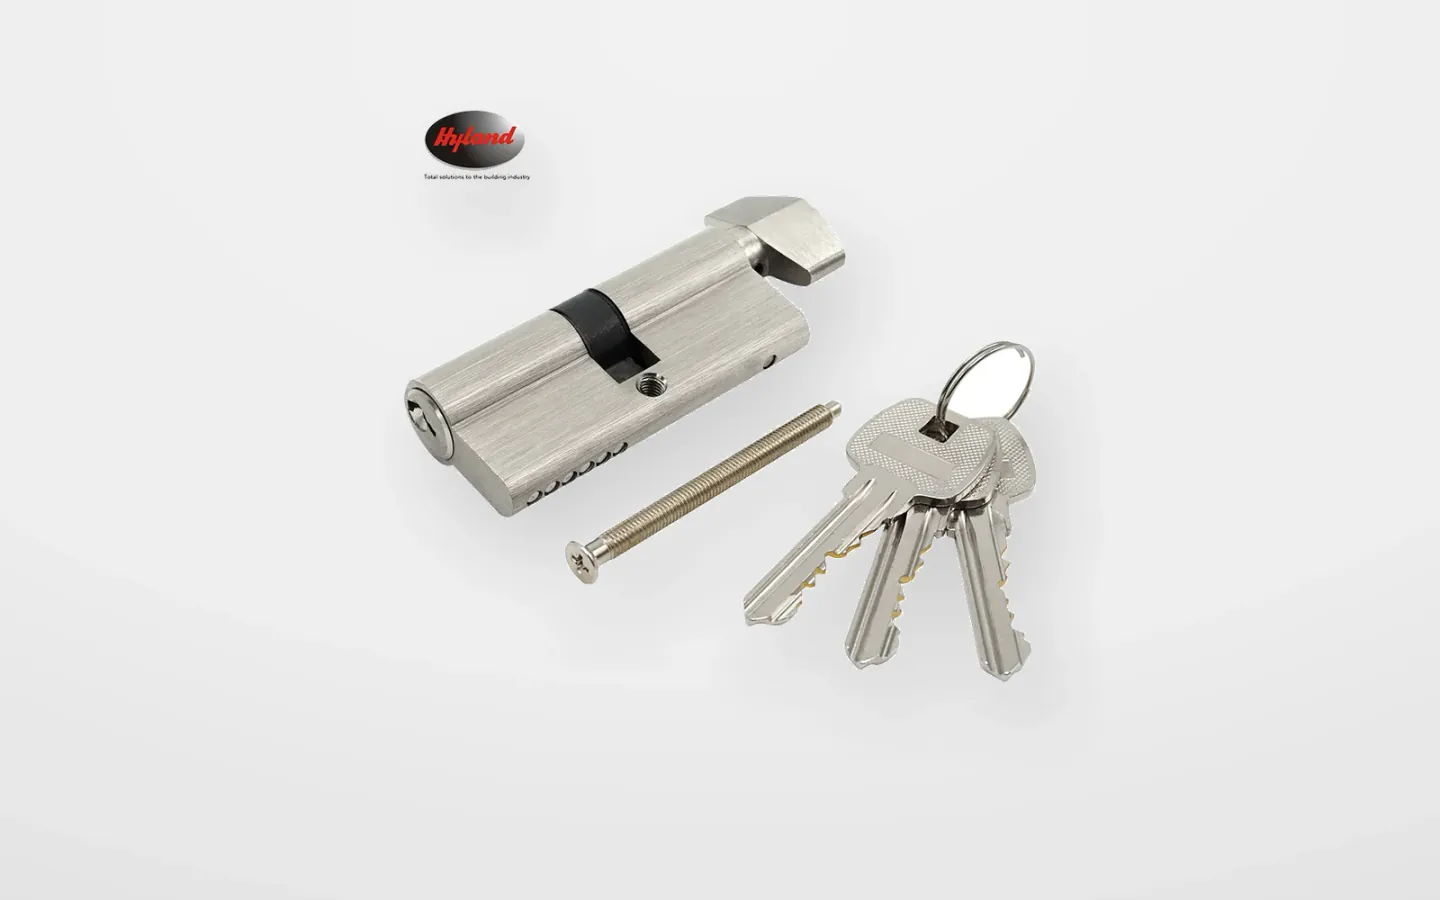
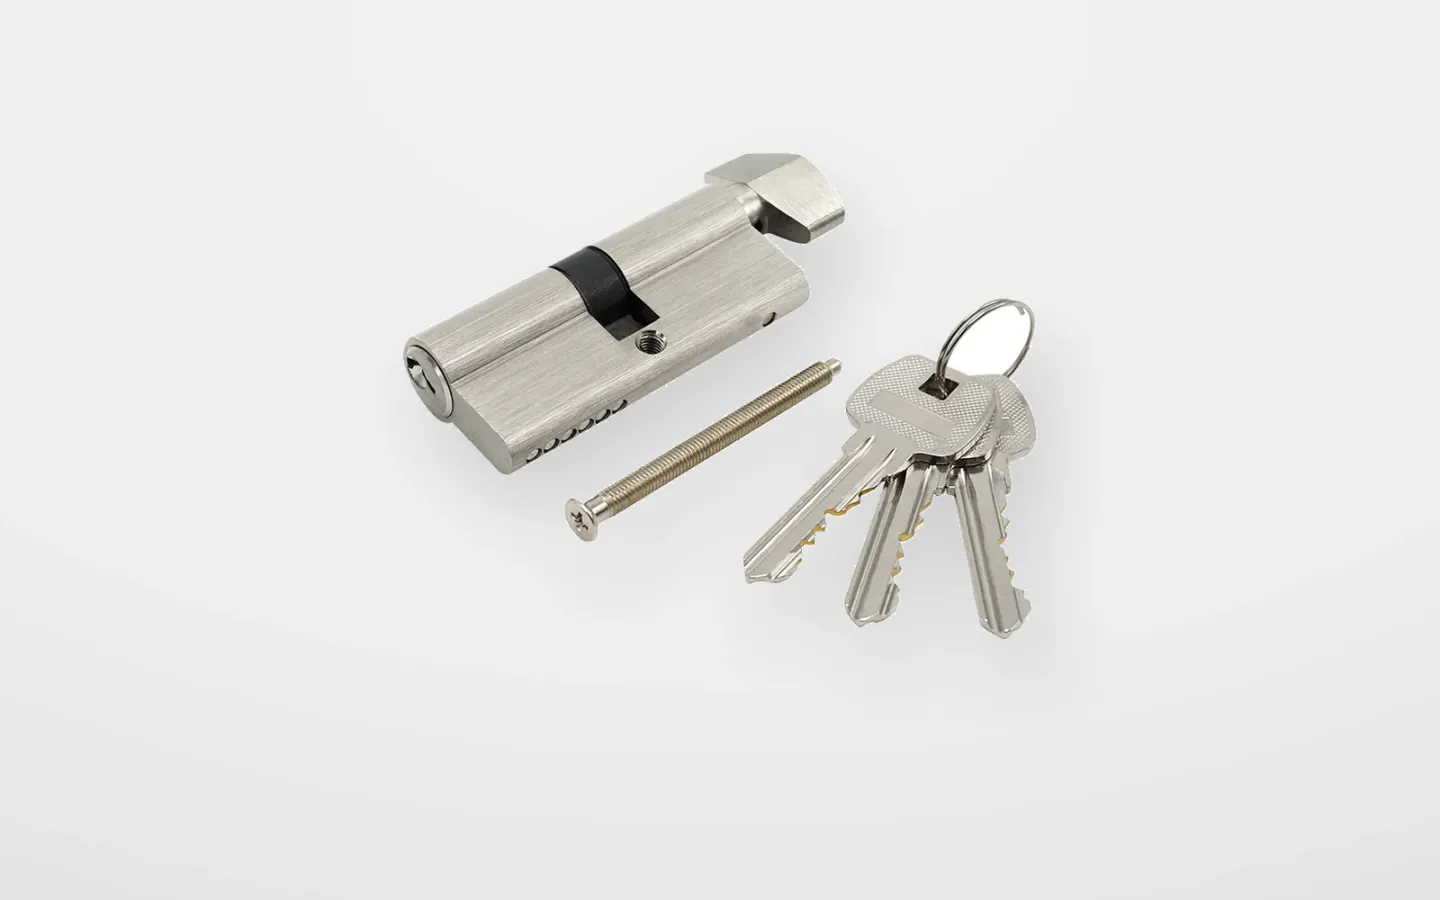
修三个线上缺陷：数据带出血、语言切换回首页、抠图残留水印
一、首页数据带被切掉两端

「THE FACTORY, IN FIGURES」那条带子第一个和最后一个数字被视口切掉了。原因是我给
SiteFacts 的容器写了 col-span-full——那是 Tailwind 的 grid-column: 1 / -1，它覆盖了
.layout > * 的 grid-column: content，把整条带子撑成全幅出血。改成显式的 col-content：
说清楚要哪一栏，而不是依赖一个恰好排在后面的工具类。

二、语言切换永远跳回西语首页

languageTarget 里只列了 /company、/contact、/projects 三条，其余全部落到 /es。而西语
镜像早已覆盖产品、对比、集合、配置器、检索与新闻——所以一个正在读产品页的西语买家点
切换，会被送回首页重新找。那个开关在站上大部分页面实际上变成了「重新开始」按钮。

改成读 hasSpanishMirror，也就是 hreflang 标签本来就在用的那份清单。一个来源，两处一致，
以后往镜像里加路由当天就能切，不必等谁想起来改这个文件。

顺带删掉文件头一段已经不成立的中文注释（还写着「只有 /company /contact /projects 有
西语版」）。它在镜像扩张后就错了，却一直留着误导下一个人。

三、抠图残留 Hyland 水印

线上首页那张锁芯图顶部带着红色 Hyland 椭圆，是我出的图。查了原因：logo 分量占主体的
0.071、maxY 在 0.13h、饱和像素只占 0.20。三条隔离规则里，第一条（小 + 靠上 + 不邻近）
被 near() 救了——logo 离锁芯太近被判成产品的一部分；第三条要求饱和度 > 0.5，而 logo 是
深色椭圆配红字，整体只有 0.20。

把第三条的门槛按实测留余量降到 0.12，位置从 0.35h 收到 0.22h。低门槛之所以安全，是靠
尺寸与位置两个前置条件：黄铜整体饱和度 0.906、金色 0.896，光看饱和度会把一整片合页抹掉，
但合页是主体，area < biggest * 0.2 永远不会把它交给这条规则。三个条件合起来描述的是
「一小块彩色的标记飘在画面上方」，在这个目录里只可能是水印。

修完 logo 后顶部还剩一道灰痕，是 logo 下面那行小字标语——中性灰，颜色判据看不见。它的
几何很干净：五个 46–130 像素的碎片（主体的 0.001），全部位于 y 107–113，而产品自己从
y 132 才开始。所以加了一条不依赖颜色的规则：又极小、又整个飘在产品上方的东西，不是零件。
钥匙圈、松螺丝、锁扣板这些确实会出现在产品旁边的小件，要么贴着主体，要么在侧下方，
而且没有一个小到主体的千分之一。

六张主图已用修好的抠图重出。

Changed region(s): [[0.2812, 0.1556, 0.7188, 0.7778], [0.2812, 0.1244, 0.375, 0.2178]]

diff --git a/src/components/site/SiteHeader.tsx b/src/components/site/SiteHeader.tsx
@@ -4,6 +4,7 @@ import Link from "next/link";
 import { useEffect, useRef, useState } from "react";
 import { usePathname } from "next/navigation";
 import { cn } from "@/lib/utils";
+import { hasSpanishMirror } from "@/lib/spanish-mirror";
 import type { MenuCategory } from "@/data/categories";
 import { headerNav, localisedHref, navLabel, siteSettings } from "@/data/navigation";
 import { GlobeIcon, MenuIcon, SearchIcon, Wordmark } from "./icons";
@@ -17,21 +18,40 @@ import { SiteMenuDrawer } from "./SiteMenuDrawer";
  * 同事在后台改一次即可，不必找人改代码 —— 后台那个栏目才算是真的能用，
  * 而不是摆着好看。
  *
- * 西班牙语路径由 localisedHref 统一处理：只有 /company /contact /projects
- * 有西语版，其余（新闻、下载、产品）指回英文页，而不是指向一个会 404 的 /es 地址。
+ * 西班牙语路径由 localisedHref 统一处理，指向真实存在的西语页；没有西语版的
+ * 指回英文页，而不是指向一个会 404 的 /es 地址。
+ *
+ * ⚠ 这里原本写着「只有 /company /contact /projects 有西语版」。那句话在西语镜像
+ * 扩到产品、对比、集合、配置器、检索与新闻之后就不成立了，但没人回来改它，
+ * 于是它变成了一条会误导下一个人的注释 —— 唯一的真相来源是
+ * src/lib/spanish-mirror.ts 的 SPANISH_MIRROR_PREFIXES。
  */
 
+/**
+ * Where the language switch goes: the SAME page in the other language, when it exists.
+ *
+ * This used to name three prefixes — company, contact, projects — and send everything else
+ * to /es, which meant a reader on a product page, a comparison table, a collection, the
+ * configurator, the finder or any news article was returned to the Spanish homepage and
+ * had to navigate back. The Spanish mirror had grown to cover all of those and this
+ * function had not, so the switch silently became a "start over" button on most of the
+ * site.
+ *
+ * `hasSpanishMirror` is the list that already decides which English paths have a Spanish
+ * twin — it is what the hreflang tags are built from. Reading it here means the switch and
+ * the hreflang can never disagree, and a route added to the mirror is switchable the same
+ * day rather than whenever somebody remembers this file.
+ *
+ * The fallback is still the homepage, because a link to a page that does not exist is
+ * worse than a link that starts over. It now only fires where there genuinely is no
+ * Spanish page.
+ */
 function languageTarget(pathname: string, isSpanish: boolean): string {
   if (isSpanish) {
     const englishPath = pathname.replace(/^\/es/, "");
     return englishPath || "/";
   }
-  if (pathname === "/company" || pathname.startsWith("/company/")) return "/es/company";
-  if (pathname === "/contact" || pathname.startsWith("/contact/")) return "/es/contact";
-  if (pathname === "/projects" || pathname.startsWith("/projects/")) {
-    return pathname.replace(/^\/projects/, "/es/projects");
-  }
-  return "/es";
+  return hasSpanishMirror(pathname) ? `/es${pathname === "/" ? "" : pathname}` : "/es";
 }
 
 type ShelfName = "products" | "company" | "buy";

diff --git a/src/components/site/SiteFacts.tsx b/src/components/site/SiteFacts.tsx
@@ -29,7 +29,16 @@ export function SiteFacts({ locale = "en" }: { locale?: Locale }) {
 
   return (
     <section className="layout" aria-labelledby="site-facts-heading">
-      <div className="col-span-full">
+      {/*
+        `col-content`, NOT `col-span-full`.
+
+        `.layout > *` already places a child in the content column, but `col-span-full` is
+        Tailwind for `grid-column: 1 / -1` and overrides it — which pushed this strip out
+        to the full bleed and clipped the first and last figures at the viewport edges on
+        the live homepage. Naming the column explicitly says which one is intended, and
+        cannot be undone by a utility that happens to sort later.
+      */}
+      <div className="col-content">
         <h2 id="site-facts-heading" className="drawer-eyebrow">
           {siteFactsHeading(locale)}
         </h2>
